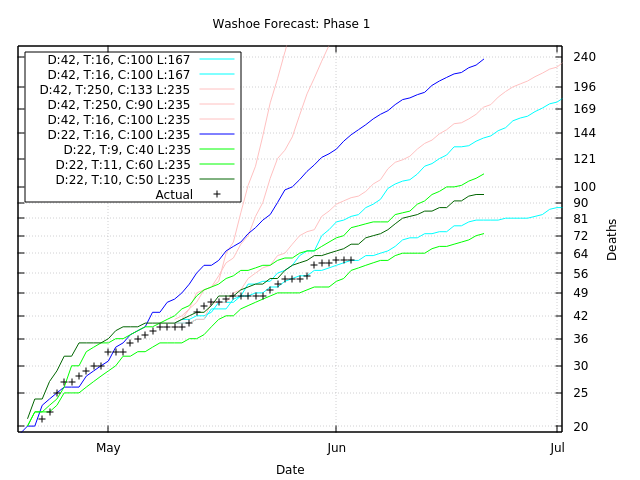
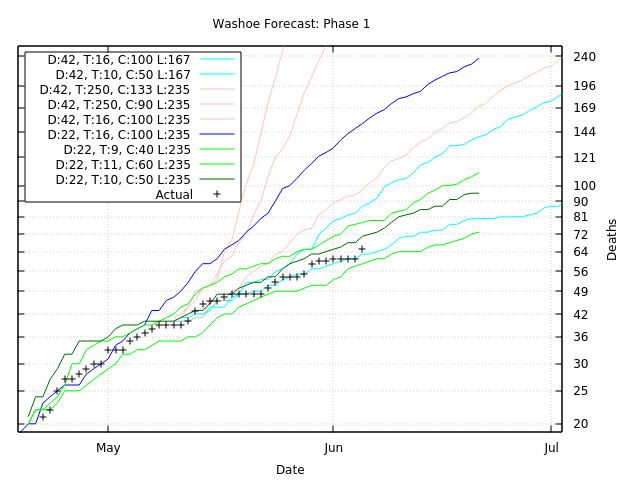
Washoe Phase 2

diff --git a/WASHOE.md b/WASHOE.md
@@ -96,9 +96,11 @@ What these runs look like:
 
 ![Washoe Forecast](img/washoe_forecast.png)
 
-## Phase 1
+## Phase one
 
-On 2020-05-09, Nevada entered phase 1 of relaxing restrictions imposed by the state of emergency.
+On 2020-05-09,
+Nevada entered phase 1 of relaxing restrictions imposed by the state of emergency which
+included reopening restaurants.
 Saving current trend upto phase 1:
 
 ```fish
@@ -135,7 +137,37 @@ Two two runs in cyan:
 the reviewed initial best fit with less lethality(travel 16, contacts 100, lethality 0.0167), and
 the previous trend but with less lethality(travel 10, contacts 50, lethality 0.0167).
 
-![Washoe Phase 1 Forecast](img/washoe_forecast_phase1.png)
+![Washoe Phase One Forecast](img/washoe_forecast_phase1.png)
 
 Note that this is based on an IFR of 0.39%,
 which for the county's population means about 1841(`0.0039*472000`) lives at risk.
+
+## Phase two
+
+On 2020-05-29, Nevada entered phase 2 which included reopening bars.
+Saving current trend upto phase 2:
+
+```fish
+pandemic --recovery=5.59 --lethality=0.0167 \
+  --file_deaths=data/deaths_washoe \
+  --alert_deaths=1 --alert_date=2020-03-29 \
+  --population=472000 --contacts=50.0 \
+  --travel=10 \
+  --halt_date=2020-05-29 \
+  --seed=45199385e37ae79b67e92134a9f1e076 --transmission=0.339 --load=washoe_phase_1 --save=washoe_phase_2
+```
+
+Run with travel and contacts 30% higher than current trend:
+
+```fish
+pandemic --recovery=5.59 --lethality=0.0167 \
+  --file_deaths=data/deaths_washoe \
+  --alert_deaths=1 --alert_date=2020-03-29 \
+  --population=472000 --contacts=65.0 \
+  --travel=13 \
+  --halt_alert_days=168 \
+  --seed=45199385e37ae79b67e92134a9f1e076 --transmission=0.339 \
+  --load=washoe_phase_2 > cache/washoe/phase2_13_65_167.run
+```
+
+![Washoe Phase Two Forecast](img/washoe_forecast_phase2.png)
